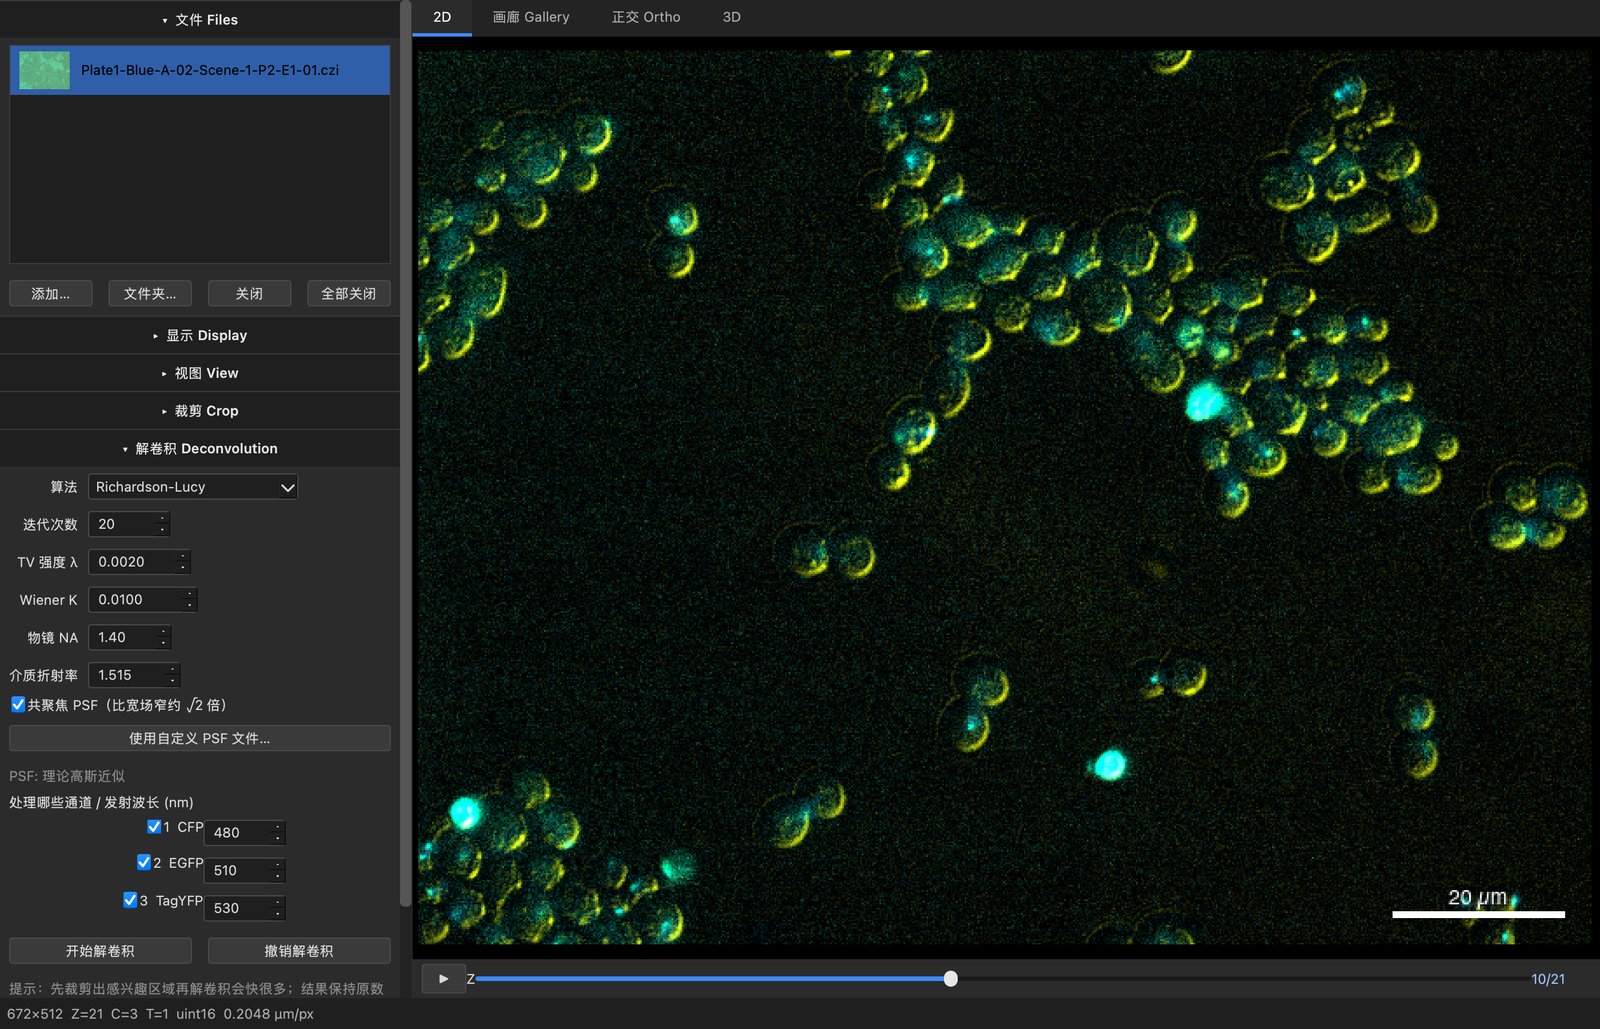
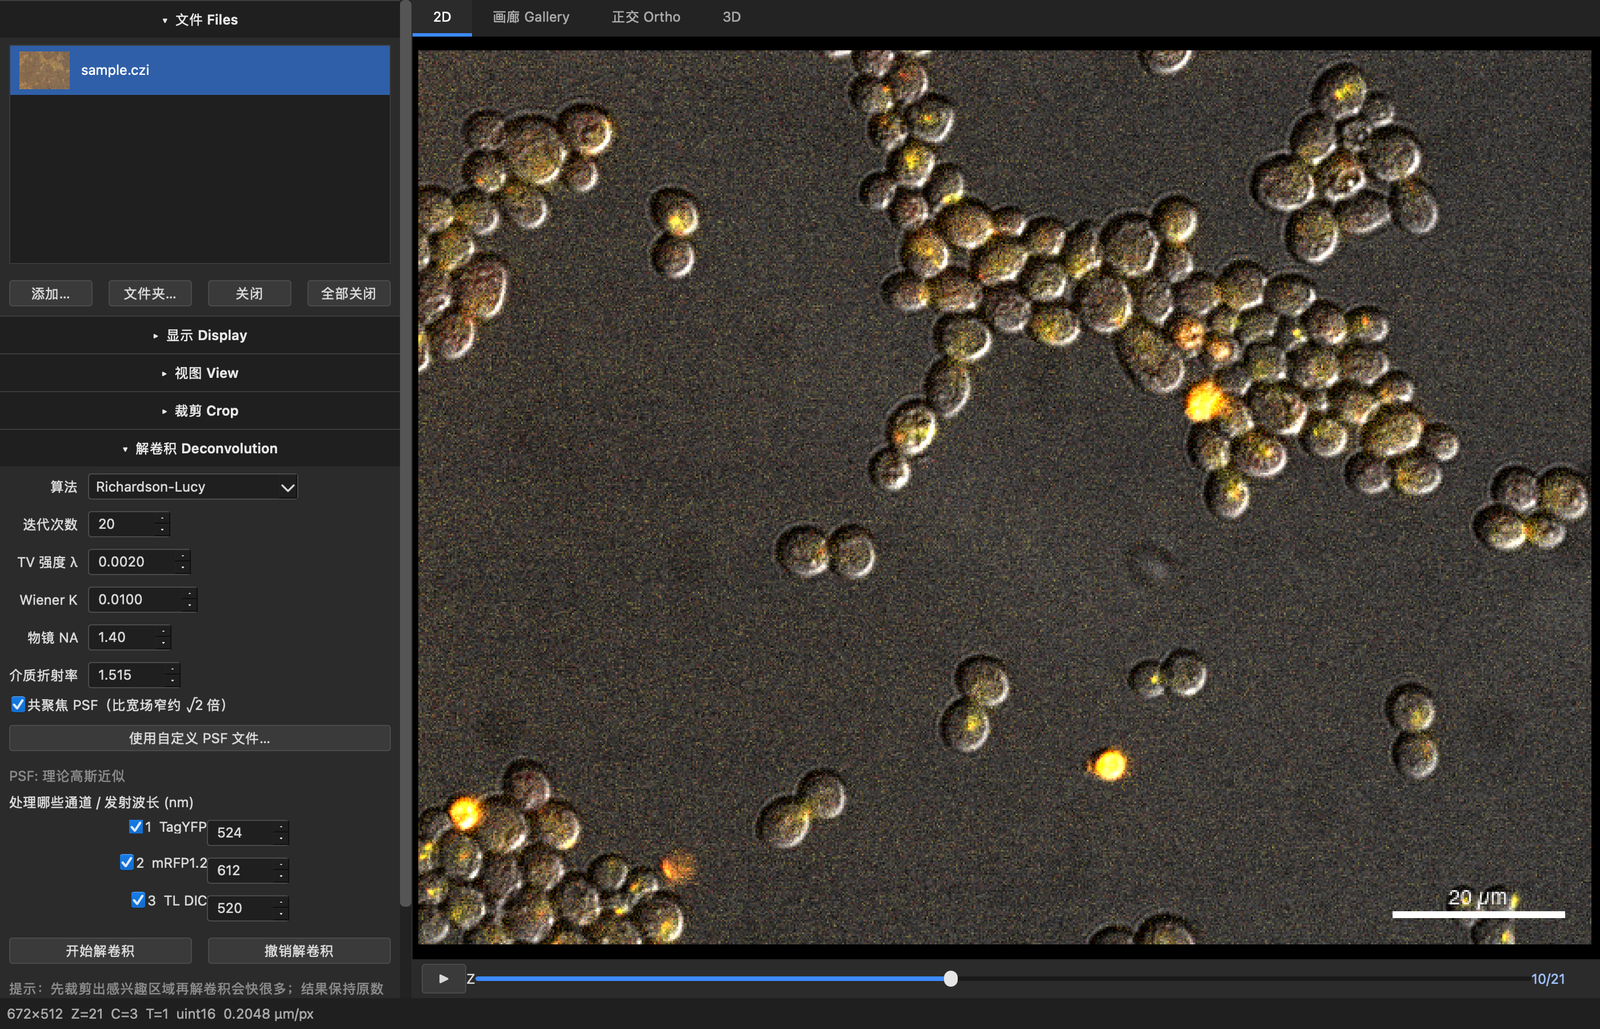
README: correct the sample data's channels (TagYFP / mRFP1.2 / TL DIC), new screenshots, document auto colours, per-channel export and per-file settings

diff --git a/README.md b/README.md
@@ -19,7 +19,7 @@
 
 <img src="docs/screenshots/2d.png" width="92%" alt="2D 视图：通道面板、直方图、比例尺">
 
-<sub>真实 CZI 数据（酵母细胞，CFP / EGFP / TagYFP 三通道 Z-stack）· 数据来源见 <a href="#-示例数据与引用">示例数据与引用</a></sub>
+<sub>真实 CZI 数据（酵母细胞：TagYFP、mRFP1.2 荧光 + TL DIC 透射光，三通道 Z-stack）· 数据来源见 <a href="#-示例数据与引用">示例数据与引用</a></sub>
 
 </div>
 
@@ -34,7 +34,7 @@
 ### 🔬 读取与显示
 - 打开 **Zeiss `.czi`**、**Nikon `.nd2`**、**Leica `.lif` / `.lof` / `.xlif` / `.xlef`**，以及 `.tif/.tiff`、`.png/.jpg`
 - 自动读取通道名、颜色、µm/像素、Z 间距（含多通道、Z-stack、时间序列）
-- **文件管理面板**：一次导入多个文件或整个文件夹，左侧列表带缩略图，点击切换；每个文件各自保留裁剪、解卷积和显示设置
+- **文件管理面板**：一次导入多个文件或整个文件夹，左侧列表带缩略图，点击切换；每个文件各自保留裁剪、解卷积和显示设置（颜色、黑白点、Gamma、阈值等），切走再切回来不会丢
 - 一个文件里有多个图像时（Leica 的多个 series / 拼图块、Nikon 的多个位置）自动拆成多项
 - **2D / 画廊 / 正交 / 3D** 四种视图，⌘1–⌘4 切换；正交视图三个面板带十字线联动
 - 比例尺可随时开关，悬停实时显示像素坐标与各通道强度
@@ -43,7 +43,7 @@
 - 通道标签条（颜色条 + 显示开关）
 - **直方图**：拖动黑点 / 白点；**上下拖动曲线中点调 Gamma**
 - 「自动」「最佳拟合」「最小/最大」一键设置显示范围
-- **8 个固定预设色**（见下表），可自定义
+- **8 个固定预设色**（见下表），可自定义；通道颜色**按波长 / 染料自动推荐**
 - **所有数值都能直接输入**（黑点、白点、Gamma、亮度、对比度、阈值，以及 3D 角度和透明度），回车确认
 - 亮度 / 对比度、颜色阈值（含 Otsu、高亮区域、阳性占比统计）
 
@@ -70,7 +70,7 @@
 - 后台线程运行，可取消、可撤销
 
 ### 📤 导出 🔒
-- 当前视图（PNG / TIFF / JPG / BMP）、各通道单独图像
+- 当前视图（PNG / TIFF / JPG / BMP）；**各通道单独图像**可选格式（PNG / TIFF / JPEG / BMP）和内容（伪彩色 / 灰度 / 原始 16 位），可同时导出合成图、带比例尺
 - Z 层多页 TIFF / 图片序列、ImageJ 超栈 TIFF、3D 旋转 GIF
 
 </td>
@@ -86,12 +86,12 @@
 | 🟢 青柠绿 Lime Green | `#80FF00` | 与纯绿区分开（如 GFP 与 YFP 同图时） |
 | 🟥 红 Red | `#FF0000` | Alexa 594、mCherry、RFP |
 | 🟪 品红 Magenta | `#FF00FF` | Alexa 647、Cy5（远红） |
-| 🟦 青 Cyan | `#00FFFF` | CFP、Alexa 430 |
+| 🟦 青 Cyan | `#00FFFF` | CFP |
 | 🟨 黄 Yellow | `#FFFF00` | YFP |
 | 🟧 橙 Orange | `#FF8000` | Alexa 555 / 568、Cy3、TRITC |
 | ⬜ 灰 Gray | `#FFFFFF` | 透射光、单色图像 |
 
-默认按通道序号依次取 蓝 → 绿 → 红 → 品红 …，也会按通道名里的染料（如 *DAPI*、*488*、*Cy5*）自动匹配；**文件自带的颜色优先**（CZI / ND2 的通道颜色，Leica 取自 LAS X 的 LUT 设置）。
+**默认按通道自身的特性配色**：透射光（DIC / 明场等）→ 灰；染料或荧光蛋白名（DAPI、GFP、YFP、mCherry、Alexa 568、Cy5…）→ 对应颜色；没有名字就按发射 / 激发波长推荐。文件里存的颜色经常不可靠（比如某些 ND2 把 405 nm 通道存成红色），所以默认不直接采用；在「视图」里取消「按波长 / 染料自动配色」即可改用文件自带的颜色（CZI / ND2 的通道颜色，Leica 的 LAS X LUT）。什么信息都没有的通道（如无元数据的 TIFF）才按序号依次取 蓝 → 绿 → 红 → 品红 …。
 
 <br>
 
@@ -231,7 +231,7 @@ README 中的所有截图都使用下面这份**公开的真实数据**（并非
 > 下载位置：<https://downloads.openmicroscopy.org/images/Zeiss-CZI/idr0011/>
 > 授权：[Creative Commons Attribution 4.0 International (CC BY 4.0)](https://creativecommons.org/licenses/by/4.0/)
 
-这份数据是 3 通道（CFP / EGFP / TagYFP）、21 个 Z 层、0.205 µm/像素的酵母细胞图像。本项目只是用它演示软件界面，**未对原始数据做任何结论性分析**；截图中的显示范围、颜色与视角均为演示用的显示设置。
+这份数据是 3 通道（TagYFP、mRFP1.2 两个荧光通道和 TL DIC 透射光通道）、21 个 Z 层、0.205 µm/像素的酵母细胞图像。本项目只是用它演示软件界面，**未对原始数据做任何结论性分析**；截图中的显示范围、颜色与视角均为演示用的显示设置。
 
 **算法参考文献**
 
